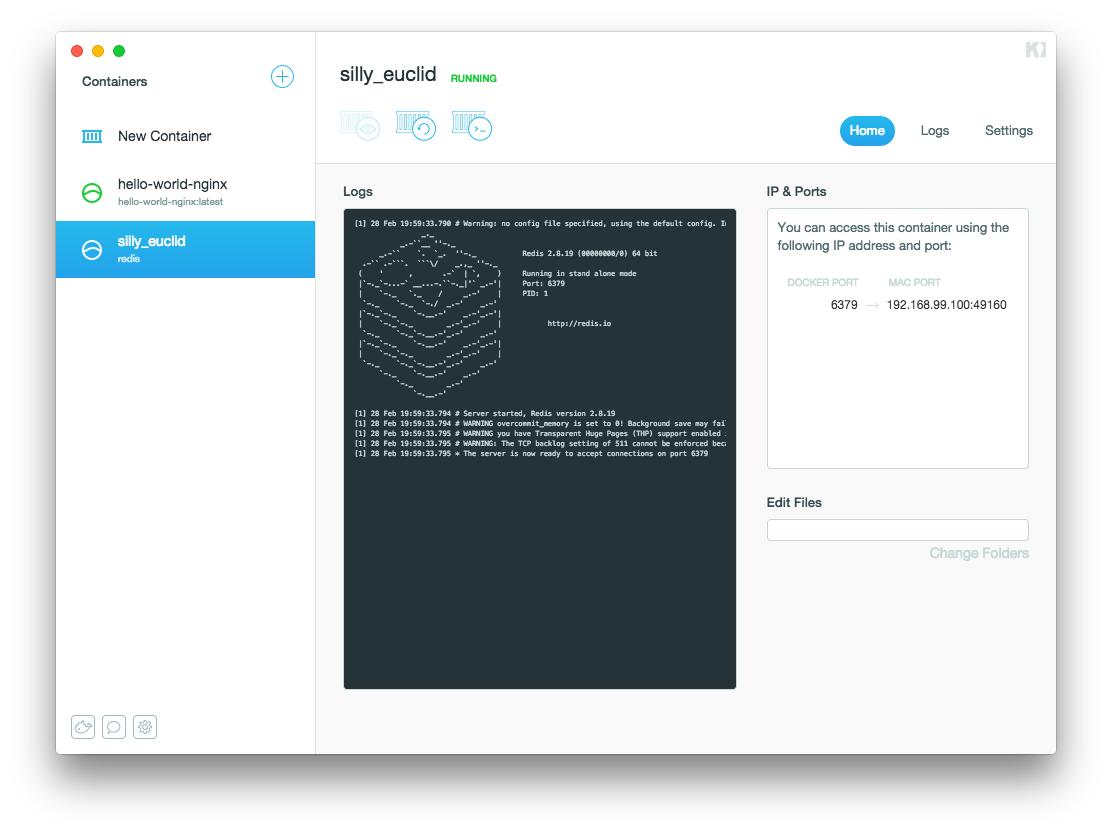
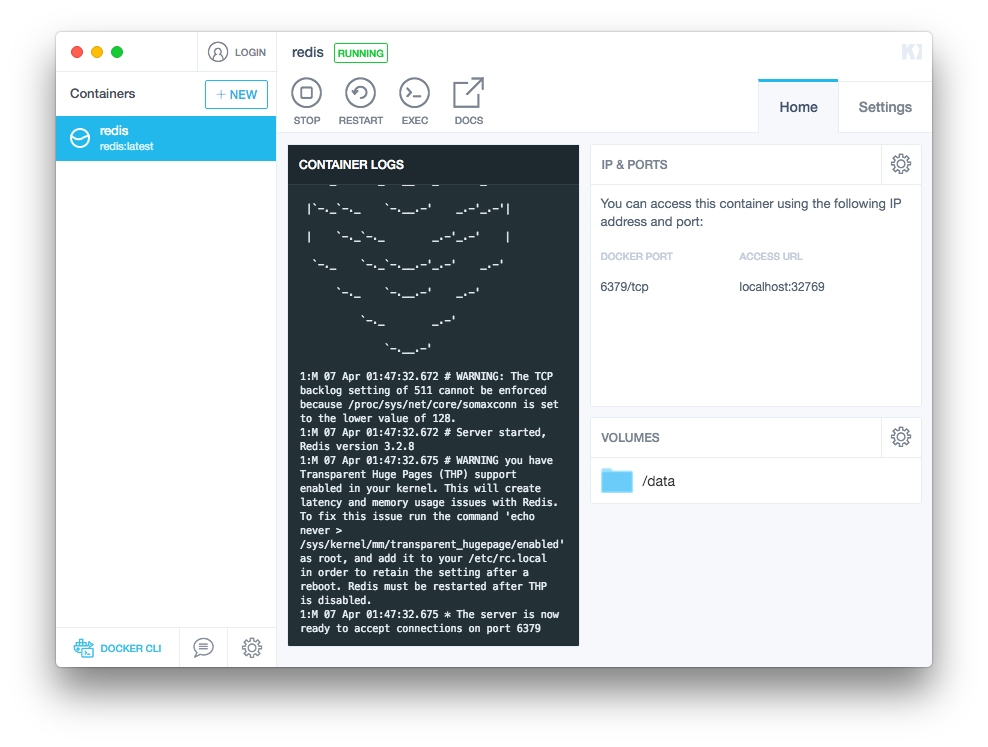
misc updates to d4mac and win, kitematic
copyedits on Kitematic, fix Mac install page

Changed region(s): [[0.0304, 0.0308, 0.9717, 0.9237], [0.7287, 0.3387, 0.9109, 0.4003]]

diff --git a/kitematic/userguide.md b/kitematic/userguide.md
@@ -24,7 +24,19 @@ and configuring volumes.  You can use Kitematic to change environment variables,
 stream logs, and single click terminal into your Docker container all from the
 GUI.
 
-First, if you haven't yet done so, download and start Kitematic by installing [Docker Toolbox](/toolbox/overview.md#ready-to-get-started).
+First, if you haven't yet done so, download and install Kitematic in one of the following ways:
+
+* Choose **Kitematic** from the Docker for Mac or Docker for Windows menu to get started with the Kitematic install.
+
+* Install [Docker Toolbox](/toolbox/overview.md#ready-to-get-started) (on older systems that do not meet the requirements of [Docker for Mac](/docker-for-mac/install.md#what-to-know-before-you-install) or [Docker for Windows](/docker-for-windows/install.md#what-to-know-before-you-install)).
+
+* Download Kitematic directly from the [Kitematic releases page](https://github.com/docker/kitematic/releases/).
+
+Start Kitematic. (On desktop systems, click on the app.)
+
+## Log in with your Docker ID
+
+Provide your Docker ID and user name and click **LOG IN** or click **Skip for now** to browse Docker Hub as a guest.
 
 ## Container list
 
@@ -85,7 +97,7 @@ The "Terminal" icon at the top of the container summary will `docker exec -i -t 
 This will allow you to make quick changes, or to debug a problem.
 
 > **Note**: Your exec'ed `sh` process will not have the same environment settings
-> as the main container process and its children. 
+> as the main container process and its children.
 > Get the environment commands for your shell: `docker-machine env default`.
 
 ### Managing Volumes

diff --git a/docker-for-mac/install.md b/docker-for-mac/install.md
@@ -45,6 +45,7 @@ For more about Stable and Edge channels, see the
     best channel to use if you want a reliable platform to work with. These releases follow the Docker Engine stable releases.<br><br>
    On this channel, you can select whether to send usage
    statistics and other data. <br><br>Stable builds are released once per quarter.
+   </td>
     <td width="50%">This installer provides the latest Edge release of
     Docker for Mac and Engine, and typically offers new features in development. Use this channel if you want to get experimental features faster, and can weather some instability and bugs. We collect all usage data on Edge releases across the board. <br><br>Edge builds are released once per month.
     </td>

diff --git a/docker-for-windows/faqs.md b/docker-for-windows/faqs.md
@@ -95,6 +95,11 @@ provides discussion threads as well, and you can create discussion topics there,
 but we recommend using the GitHub issues over the forums for better tracking and
 response.
 
+### How can I opt out of sending my usage data?
+
+If you do not want auto-send of usage data, use the Stable channel. For more
+information, see [Stable and Edge channels](#questions-about-stable-and-edge-channels) ("What is the difference between the Stable and Edge versions of Docker for Windows?").
+
 ### Can I use Docker for Windows with new swarm mode?
 
 Yes! You can use Docker for Windows to test single-node features of

diff --git a/docker-for-mac/faqs.md b/docker-for-mac/faqs.md
@@ -104,6 +104,11 @@ provides discussion threads as well, and you can create discussion topics there,
 but we recommend using the GitHub issues over the forums for better tracking and
 response.
 
+### How can I opt out of sending my usage data?
+
+If you do not want auto-send of usage data, use the Stable channel. For more
+information, see [Stable and Edge channels](#stable-and-edge-channels) ("What is the difference between the Stable and Edge versions of Docker for Mac?").
+
 ### Can I use Docker for Mac with new swarm mode?
 
 Yes, you can use Docker for Mac to test single-node features of [swarm
